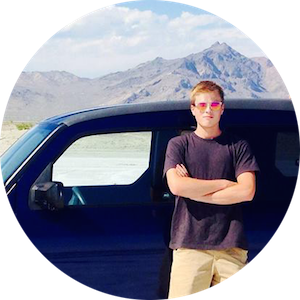
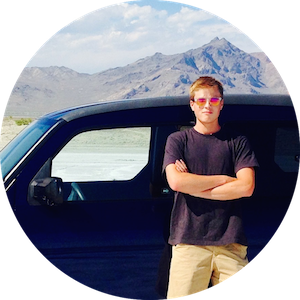
updated styling, images, fonts

diff --git a/bio.html b/bio.html
@@ -9,13 +9,16 @@
 
         <body>
                 <div class = "header">
-                <span class="link"> <a href="index.html">Home</a></span>
-                <span class="link"> <a href="bio.html">Biography</a></span>
-                <span class="link"> <a href="resume.html">Resume</a></span>
+                <span class="link"> <a href = "index.html">&nbsp&nbspHome&nbsp&nbsp</a></span>
+                <span class = "link"> <a href = "bio.html">Biography</a></span>
+                <span class = "link"> <a href = "resume.html">&nbspResume&nbsp</a></span>
                 </div>
-
-   		
-                <p>Hey! My name is Sam and I'm from Mill Valley, California. Mill Valley is a small town just across the Golden Gate Bridge from San Francisco. I'm currently a junior at Tufts University where I study Computer Science and Engineering Psychology. Engineering Psychology is basically the same as Human Factors Engineering and is all about designing things that are easy for human beings to use. As much as I love coding and designing the next big idea, I also love delicious food, sailing, roadtrips, and adventuring outdoors. One thing I don't like is goat cheese.</p>    
+                <div class="center-cropped">
+                    <img class="bg" src="sunset.jpg" alt="Mt. Tamalpais background photo" />
+                    <div class="text">
+                        <p>Hey! My name is Sam and I'm from Mill Valley, California. Mill Valley is a small town just across the Golden Gate Bridge from San Francisco. I'm currently a junior at Tufts University where I study Computer Science and Engineering Psychology. Engineering Psychology is basically the same as Human Factors Engineering and is all about designing things that are easy for human beings to use. As much as I love coding and designing the next big idea, I also love delicious food, sailing, roadtrips, and adventuring outdoors. One thing I don't like is goat cheese.</p>
+                    </div>
+                </div> 
         </body>
 
 </html>

diff --git a/style.css b/style.css
@@ -6,22 +6,33 @@ body {
 }
 
 h1 {
-	font-size: 72em;
+	font-family: 'Cutive Mono', ;
+	font-size: 100em;
 	font-weight: 700;
-	margin: 5%;
+	margin: 3%;
 }
 
 p {
+	position: absolute;
+	top: 5%;
+	left: 10%;
+	right: 5%;
+	width: 80%;
 	font-size: 21em;
-	margin: 10%;
-	margin-top: 3%
+	font-weight: 200;
+	line-height: 1.5em;
 }
 
-img {
-	margin-top: 2%;
-	width: auto;
-	max-width: 100%;
-	height: auto;
+.center-cropped {
+	position: relative;
+	background-position: center center;
+  	background-repeat: no-repeat;
+  	overflow: hidden;
+}
+
+.bg {
+	min-width: 100%;
+	min-height: 100%;
 }
 
 .header {
@@ -34,23 +45,30 @@ img {
 }
 
 a {
-	margin-left: 2em;
+	margin-left: 1em;
 	font-size: 20em;
 	color: white;
 	font-weight: 200;
+	padding: 10px;
+	text-decoration: none;
+	background : #27AAE1;
+  	border-radius : 7px;
+  	box-shadow : 3px 3px 0px #1A7294;
 }
 
 a:hover {
-	color: #EEEEEE;
+	box-shadow : 1px 1px 0px white;
+	
 }
 
 a:active {
-	color: #DDDDDD;
+	box-shadow : 1px 1px 0px white;
+	background: #75BEE9;
 }
 
 h2 {
 	font-size: 21em;
-	font-weight: 400;
+	font-weight: 200;
 	margin-bottom: 0%;
 }
 
@@ -131,12 +149,14 @@ ul {
 .inside-right {
 	float: left;
 	width: 225px;
+	margin-bottom: 100em;
 }
 
 .inside-left {
 	float: left;
 	width: 205px;
 	padding-right: 20em;
+	margin-bottom: 100em;
 }
 
 
@@ -151,7 +171,7 @@ ul {
 
 .gray-bar {
 	font-family: arial;
-	font-weight: black;
+	font-weight: bold;
 	font-size: 2em;
   	color: #D1D3D4;
   	vertical-align: -4px;
@@ -161,10 +181,3 @@ ul {
 .blue {
 	color: #27AAE1;
 }
-
-#footer {
-	margin-top: 620em;
-	height: 50px;
-	background : #1C75BC;
-}
-

diff --git a/index.html b/index.html
@@ -4,18 +4,20 @@
                 <title>Home</title>
                 <meta charset="utf-8">
                 <link rel="stylesheet" href="style.css" />
-                <link href='https://fonts.googleapis.com/css?family=Source+Sans+Pro:400,200,300,700' rel='stylesheet' type='text/css'> 
+                <link href='https://fonts.googleapis.com/css?family=Source+Sans+Pro:400,200,300,700'rel='stylesheet' type='text/css'> 
+                <link href='https://fonts.googleapis.com/css?family=Cutive+Mono' rel='stylesheet' type='text/css'>
         </head>
 
         <body>
                 <div class="header">
-                <span class="link"> <a href="index.html">Home</a></span>
-                <span class="link"> <a href="bio.html">Biography</a></span>
-                <span class="link"> <a href="resume.html">Resume</a></span>
+                <span class="link"> <a href = "index.html">&nbsp&nbspHome&nbsp&nbsp</a></span>
+                <span class = "link"> <a href = "bio.html">Biography</a></span>
+                <span class = "link"> <a href = "resume.html">&nbspResume&nbsp</a></span>
                 </div>
-                <h1>SAM GATES</h1> 
-                <img src="sam.png" alt="profile picture">  
-                  
+                <h2><br><h2>
+                <img src="sam.png" alt="profile picture" />  
+                <h1>Sam Gates</h1> 
+                <div class="footer"></div>
         </body>
 
 </html>

diff --git a/resume.html b/resume.html
@@ -9,9 +9,9 @@
 
         <body>
                 <div class = "header">
-                <span class="link"> <a href = "index.html">Home</a></span>
+                <span class="link"> <a href = "index.html">&nbsp&nbspHome&nbsp&nbsp</a></span>
                 <span class = "link"> <a href = "bio.html">Biography</a></span>
-                <span class = "link"> <a href = "resume.html">Resume</a></span>
+                <span class = "link"> <a href = "resume.html">&nbspResume&nbsp</a></span>
                 </div>
                 
                 <div id="Gray-Header-Box">
@@ -130,6 +130,5 @@
                         </ul>
                     </span> 
                 </div>
-                <div id="footer"></div>
         </body>
 </html>
